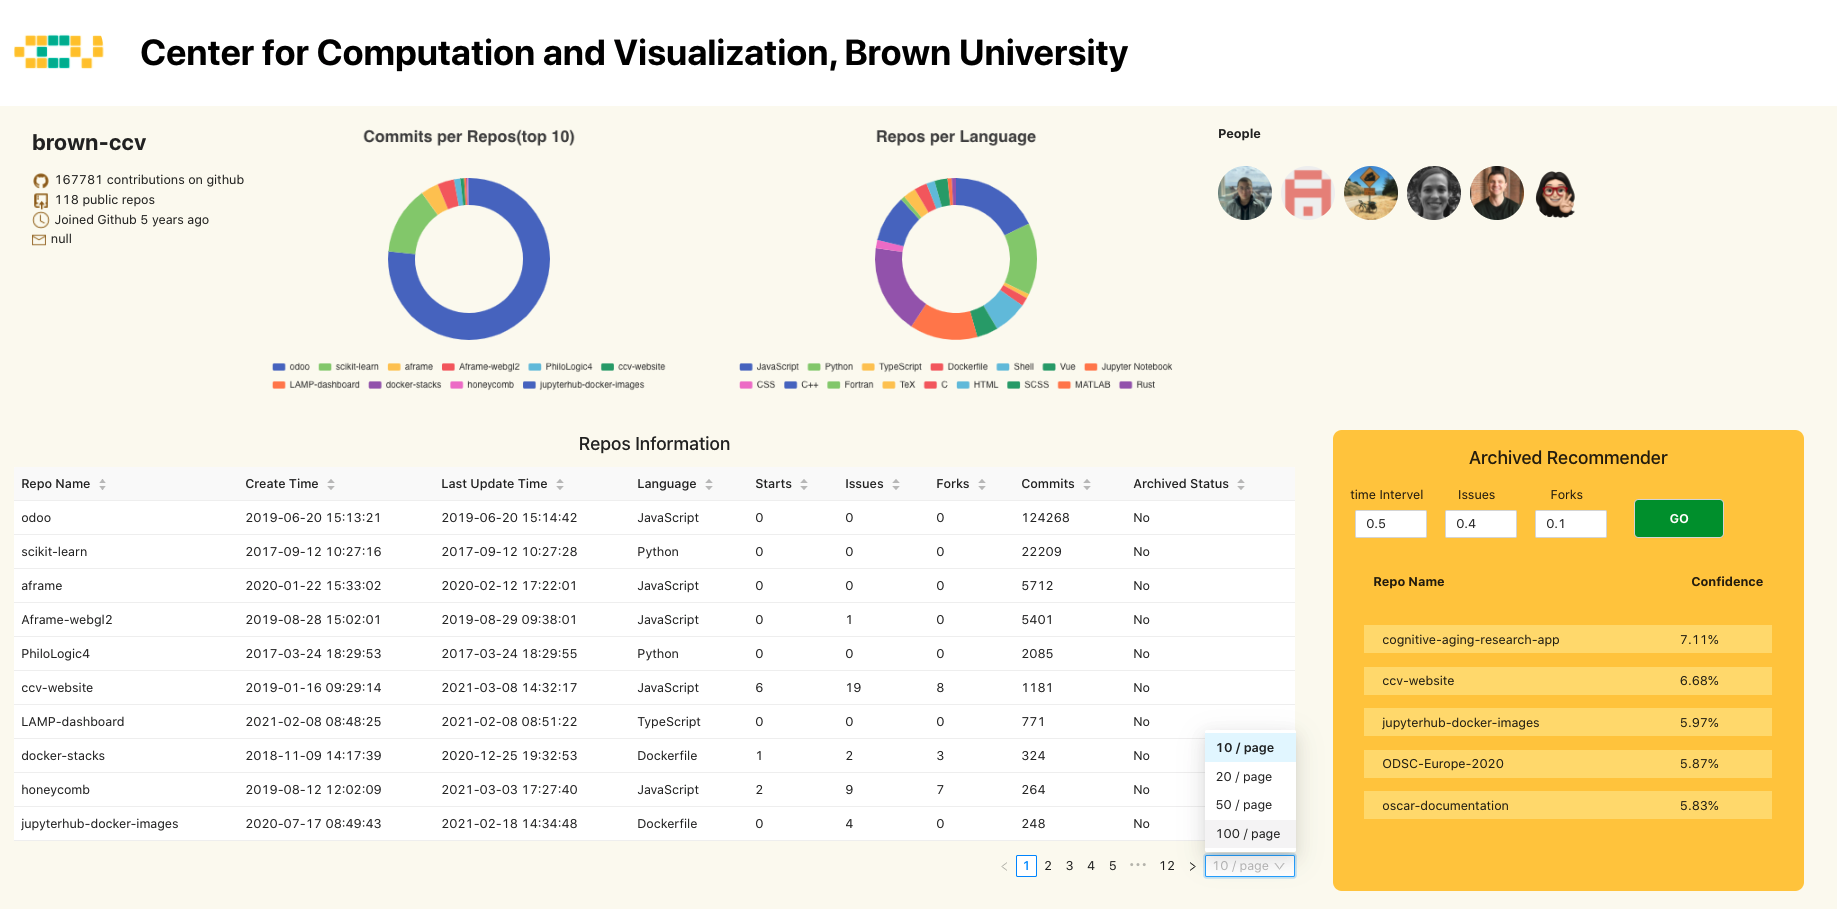
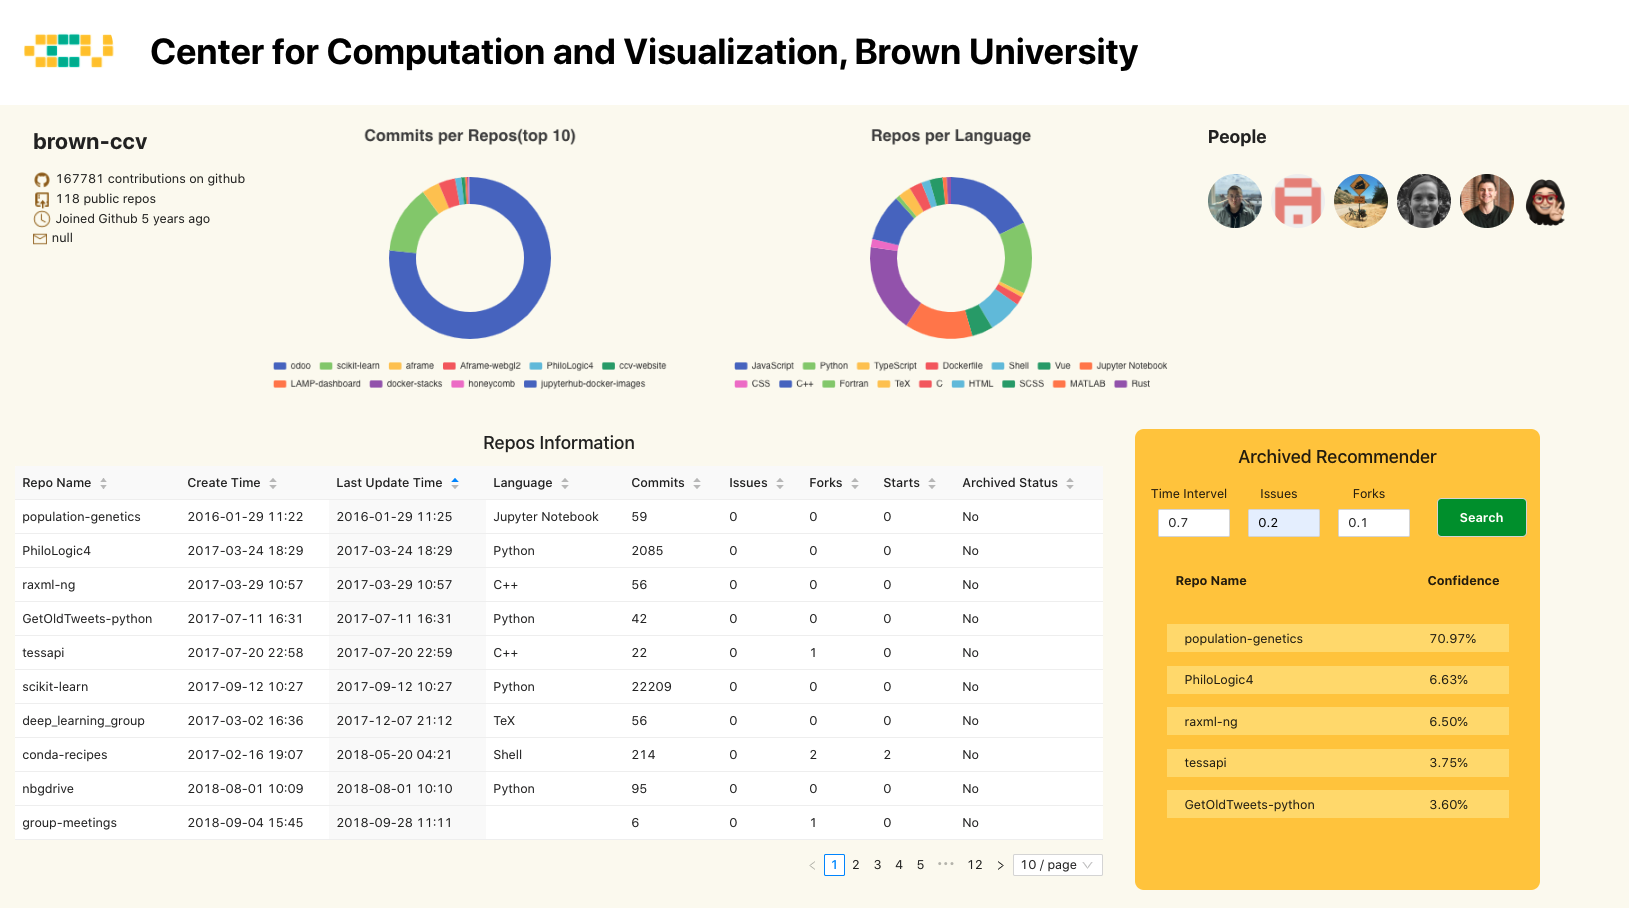
fixed recommender value overflow bugs

diff --git a/src/utils.js b/src/utils.js
@@ -18,7 +18,7 @@ export const validatorNumber = (rule, value) => {
 /*
 Count the total number of commits
 */
-export const getCommits = function(data) {
+export const getCommits = data => {
     var total = 0;
     for (var j in data) {
         total += data[j];
@@ -33,7 +33,7 @@ This is the recommendation algorithm
 const getValue = (timeWei, issuesWei, forkWei, data) => {
     let result = [];
     data.forEach(item => {
-        let timeValue = timeWei * ((new Date().getTime() - new Date(item.updated_at).getTime()) / (24 * 60 * 60 * 1000));
+        let timeValue = timeWei * ((new Date().getTime() - new Date(item.updated_at).getTime()) / (4 * 31 * 24 * 60 * 60 * 1000));
         result.push({
             repoName: item.name,
             value: timeValue + issuesWei * item.open_issues + forkWei * item.forks
@@ -55,7 +55,7 @@ export const softmax = (timeWei, issuesWei, forkWei, data) => {
     let result = getValue(t, i, f, data) || []
     let totalExp = 0;
     result.forEach(item => {
-        let repoExp = isNaN(parseFloat(Math.exp(item.value.toFixed(2)).toString().substr(0,3))) ? 0 : parseFloat(Math.exp(item.value.toFixed(2)).toString().substr(0,3));
+        let repoExp = isNaN(parseFloat(Math.exp(item.value.toFixed(2)).toString().substr(0,12))) ? 0 : parseFloat(Math.exp(item.value.toFixed(2)).toString().substr(0,12));
         totalExp += repoExp;
         item.value = repoExp;
     })
@@ -63,5 +63,6 @@ export const softmax = (timeWei, issuesWei, forkWei, data) => {
     result.forEach(item => {
         item.value = (item.value / totalExp).toFixed(6);
     })
+    console.log(result.sort((a, b) => b.value - a.value).slice(0, 5));
     return result.sort((a, b) => b.value - a.value).slice(0, 5)
 }

diff --git a/src/App.js b/src/App.js
@@ -98,6 +98,8 @@ const columns = [
   },
 ]
 
+
+
 class App extends React.Component {
 
   // init data
@@ -351,6 +353,8 @@ class App extends React.Component {
     reposCommitInit.setOption(reposCommitsOptions)
   }
 
+
+
   //click member's avatar to skip
   handleToavatarGit(url) {
     window.open(url)
@@ -409,7 +413,7 @@ class App extends React.Component {
                 <Form className="weigth-form"
                   onFinish={(value) => this.handleSubmit(value)}>
                   <Form.Item
-                    label="time Intervel"
+                    label="Time Intervel"
                     name="time"
                     colon={false}
                     rules={[{ validator: validatorNumber }]}
@@ -432,7 +436,7 @@ class App extends React.Component {
                   >
                     <Input />
                   </Form.Item>
-                  <Button className="submit-btn" htmlType="submit">GO</Button>
+                  <Button className="submit-btn" htmlType="submit">Search</Button>
                 </Form>
               </div>
               <div className="archive-wrapper-table">

diff --git a/README.md b/README.md
@@ -8,7 +8,7 @@ The main objective is to develop a Front End Web Application that provides a sum
 
 ## Built With 
 
-In this project, we use the following framework, library and tools to built this project.
+In this project, I used the following framework, library and tools to built this project.
 
 * [React](https://reactjs.org/) 
 * [axios](https://yarnpkg.com/package/axios) 
